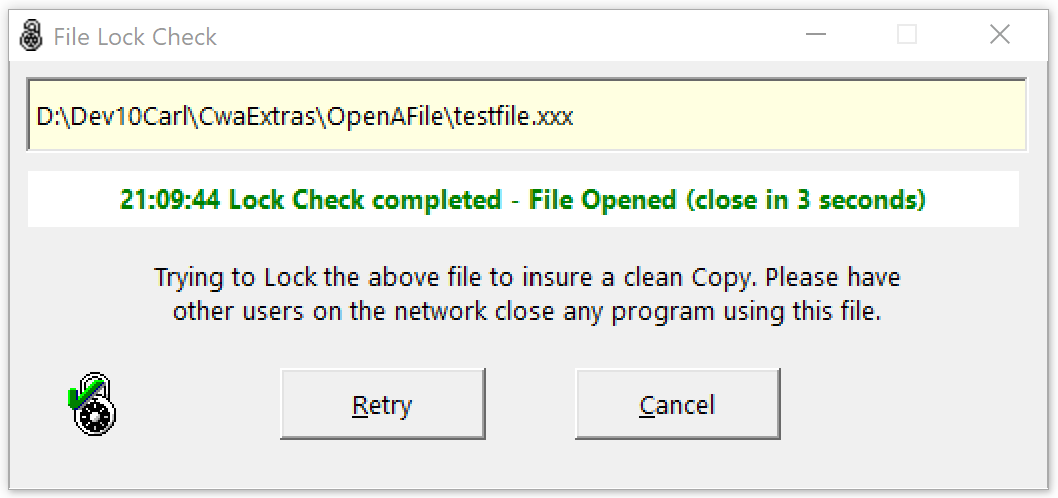
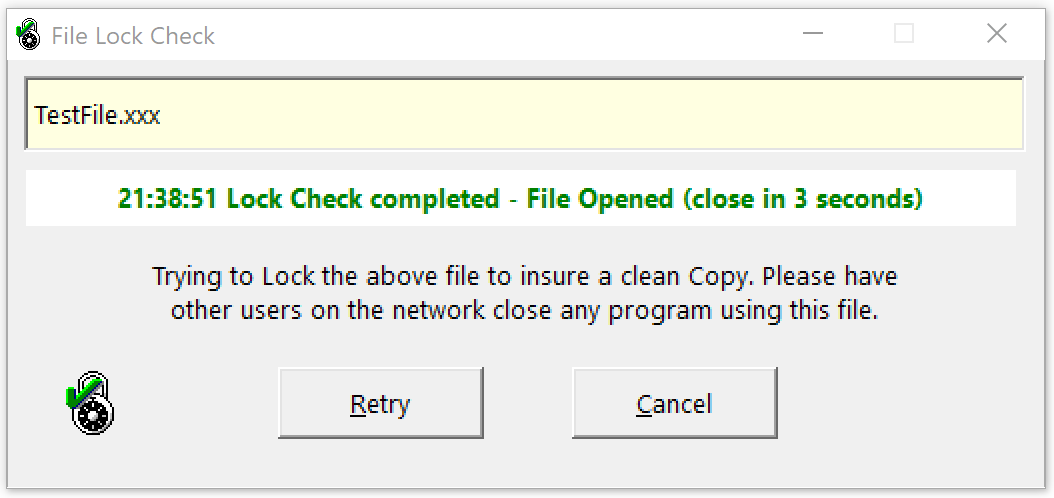
Readme update

diff --git a/README.md b/README.md
@@ -10,15 +10,19 @@ Test your File code (Open, Copy, Remove) handles errors correctly when a program
 # FileLockCheck
 
 FileLockCheck is intended for use in BAT files to check if a file is in use before doing a COPY
- or other operation. It displays the window below to inform the user of the problem.
- Once the file lock succeeds message turns green and closes in 30 seconds.
+ or other operation that requires exclusive access ("Read Only + Deny All").
+ It displays the window below to inform the user of the problem so they can
+ try to get the file closed or cancel.
+ The lock is retried every 3 seconds.
+ Once the lock succeeds the message turns green and closes in 3 seconds.
  
 Because it is intended for BAT file use it sets the ERRORLEVEL as follows:
 
-ErrorLevel ! Reason
-0 ! Lock Succeeded
-1 ! Lock Failed
-2 ! File does not exist
+| ErrorLevel | Reason |
+| :--------: | ------ |
+! 0 | Lock Succeeded |
+| 1 | Lock Failed |
+| 2 | File does not exist |
 
 Typical BAT code would be:
 ```
@@ -32,9 +36,11 @@ GOTO :EOF
 
 :CanCopy
 COPY FileNameXYZ.TPS X:\Target
-GOTO 
 ```
 
 ![main window](images/readme1.png)
 
 ![main window](images/readme2.png)
+
+The easy way to test FileLockCheck is to use OpenFileForTest to "Open File" as Deny All then run FileLockCheck.
+ Click "Close File" to see FileLockCheck turn green then close.
